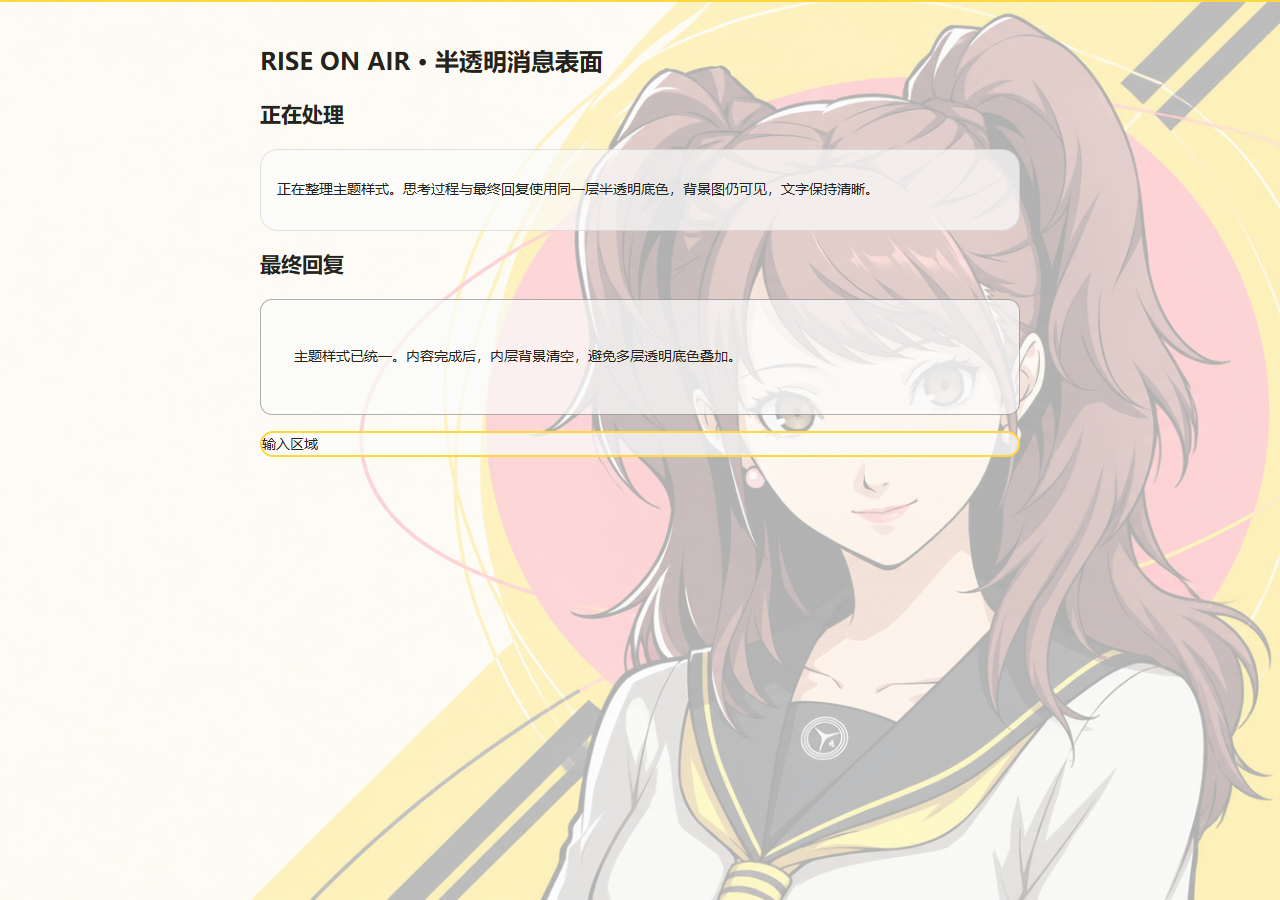
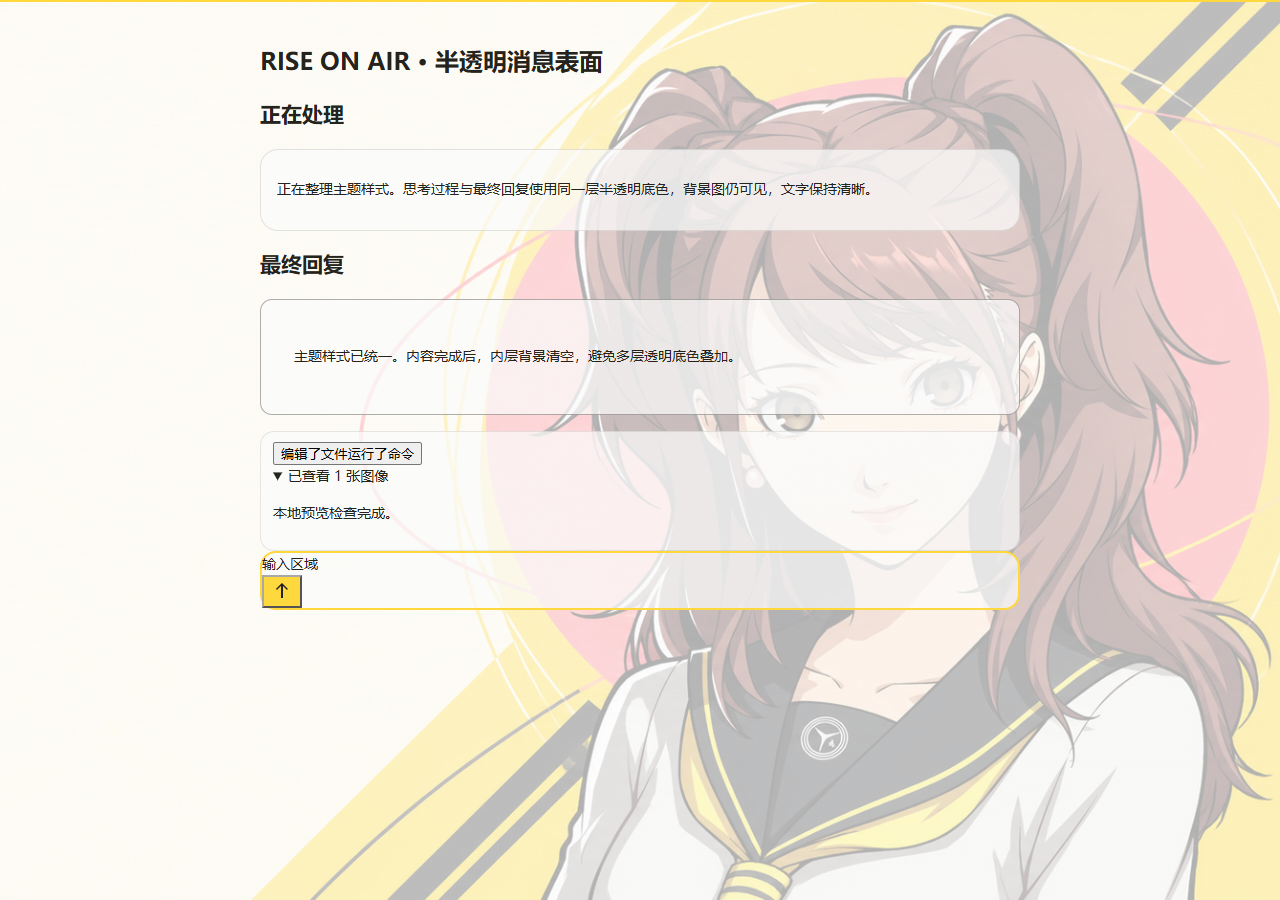
Unify tool activity surfaces and steering send button colors in v1.0.2

Changed region(s): [[0.1875, 0.4667, 0.8125, 0.6844]]

diff --git a/src/runtime/rise-surfaces.css b/src/runtime/rise-surfaces.css
@@ -1,6 +1,8 @@
 /* Rise-only adapter for Codex Dream Skin 1.5.21. Injected only for this theme.
    Paint one translucent surface; keep text fully opaque. */
 html[data-dream-skin="active"] .thread-scroll-container
+  [data-local-conversation-item-target-ids],
+html[data-dream-skin="active"] .thread-scroll-container
   [data-response-annotation-conversation][data-response-annotation-target] {
   background: var(--ds-theme-color-panel) !important;
   backdrop-filter: none !important;
@@ -12,8 +14,37 @@ html[data-dream-skin="active"] .thread-scroll-container
    A second translucent fill would compound to an almost opaque panel. */
 html[data-dream-skin="active"] .thread-scroll-container
   [data-local-conversation-final-assistant]
+  [data-local-conversation-item-target-ids],
+html[data-dream-skin="active"] .thread-scroll-container
+  [data-local-conversation-item-target-ids] [data-local-conversation-item-target-ids],
+html[data-dream-skin="active"] .thread-scroll-container
+  [data-response-annotation-conversation][data-response-annotation-target]
+  [data-local-conversation-item-target-ids],
+html[data-dream-skin="active"] .thread-scroll-container
+  [data-local-conversation-final-assistant]
   [data-response-annotation-conversation][data-response-annotation-target] {
   background: transparent !important;
   backdrop-filter: none !important;
   box-shadow: none !important;
+}
+
+/* Native steering/queue send actions do not use the old exact Send label.
+   Target primary composer controls by their native surface contract. */
+html[data-dream-skin="active"] [data-ds-part="composer"] {
+  --color-background-composer-primary: #ffd83d;
+  --color-text-composer-primary: #242124;
+}
+html[data-dream-skin="active"] [data-ds-part="composer"]
+  button:is([class~="bg-composer-primary"], [class~="bg-primary-solid"], [type="submit"]) {
+  --ds-text: #242124;
+  --ds-on-accent: #242124;
+  --color-text-primary: #242124;
+  background: #ffd83d !important;
+  color: #242124 !important;
+}
+html[data-dream-skin="active"] [data-ds-part="composer"]
+  button:is([class~="bg-composer-primary"], [class~="bg-primary-solid"], [type="submit"]) svg,
+html[data-dream-skin="active"] [data-ds-part="composer"]
+  button:is([class~="bg-composer-primary"], [class~="bg-primary-solid"], [type="submit"]) * {
+  color: #242124 !important;
 }

diff --git a/README.md b/README.md
@@ -12,7 +12,7 @@
 
 前往 **[Releases 下载 Windows 安装包](https://github.com/qt0713/RiseOnAir-Codex-P4R/releases/latest)**：
 
-1. 下载 `RiseOnAir-Setup-v1.0.1-windows-x64.exe`；可用同页 `SHA256SUMS.txt` 核对摘要。
+1. 下载 `RiseOnAir-Setup-v1.0.2-windows-x64.exe`；可用同页 `SHA256SUMS.txt` 核对摘要。
 2. 保存 Codex 中尚未发送的输入，然后运行安装包。首次配置或需要更新引擎时可能关闭客户端；按当前用户安装，无需接管 WindowsApps。
 3. 保持安装完成页的“启动 Codex 并应用理世主题”选项，或双击桌面 **Codex - 理世启动**。
 
@@ -40,6 +40,10 @@
 - 主题跟随客户端深浅色设置，聊天页采用 ambient 背景处理。按钮以明黄与浅珊瑚粉为强调色，去掉深紫色填充；主要操作使用深色文字。
 - 动画结束但主题尚未验证时显示静态等待画面，不把固定 3.2 秒伪装成加载进度。
 - 验证失败由上游启动事务恢复本次外观修改，保留已有主题会话；日志会记录失败，不会把“文件已复制”显示为“主题已生效”。
+
+## v1.0.2：补齐工具摘要与运行中发送按钮
+
+工具操作摘要条及其展开内容，与思考过程共用半透明面板。运行中追加指令、排队/引导发送按钮统一为明黄底、深墨色箭头；焦点、禁用和提交行为保持原生逻辑。
 
 ## v1.0.1：思考过程与最终回复统一半透明
 

diff --git a/docs/TESTING.md b/docs/TESTING.md
@@ -33,3 +33,6 @@
 - 在已核对 Browser ID 的本机 Codex CDP 会话只读取计算样式，不读取消息文本：14 个响应标注节点中，独立思考节点背景为 rgba(252,252,252,0.7)，无渐变、无背景模糊，文字层 opacity=1；最终消息内部的节点背景为透明。
 - 独立回归场景覆盖深浅色 × 390/1280 px 共四组，比较思考/最终回复颜色与 alpha，确认完成后的内层透明、展开后样式保持、无水平溢出或页面异常。不同 CSS 色彩序列化允许 1/255 的量化误差，alpha 均为 179/255。
 - 版本适配在私有测试副本重复应用通过，恢复原注入器通过 SHA-256 校验；不修改上游源码检出目录。兼容层固定支持 Dream Skin 1.5.21，未知注入器哈希拒绝覆盖。
+## v1.0.2 工具摘要与引导发送按钮
+
+补充工具摘要 data-local-conversation-item-target-ids 的半透明背景，移除原有渐变及 18px 模糊。覆盖运行中原生 bg-composer-primary 提交按钮及图标颜色，使用 #FFD83D 背景和 #242124 前景。深浅色 × 390/1280 px 的四组回归新增工具摘要、展开详情和引导发送箭头校验；不调用按钮提交动作，不更改消息或输入。
